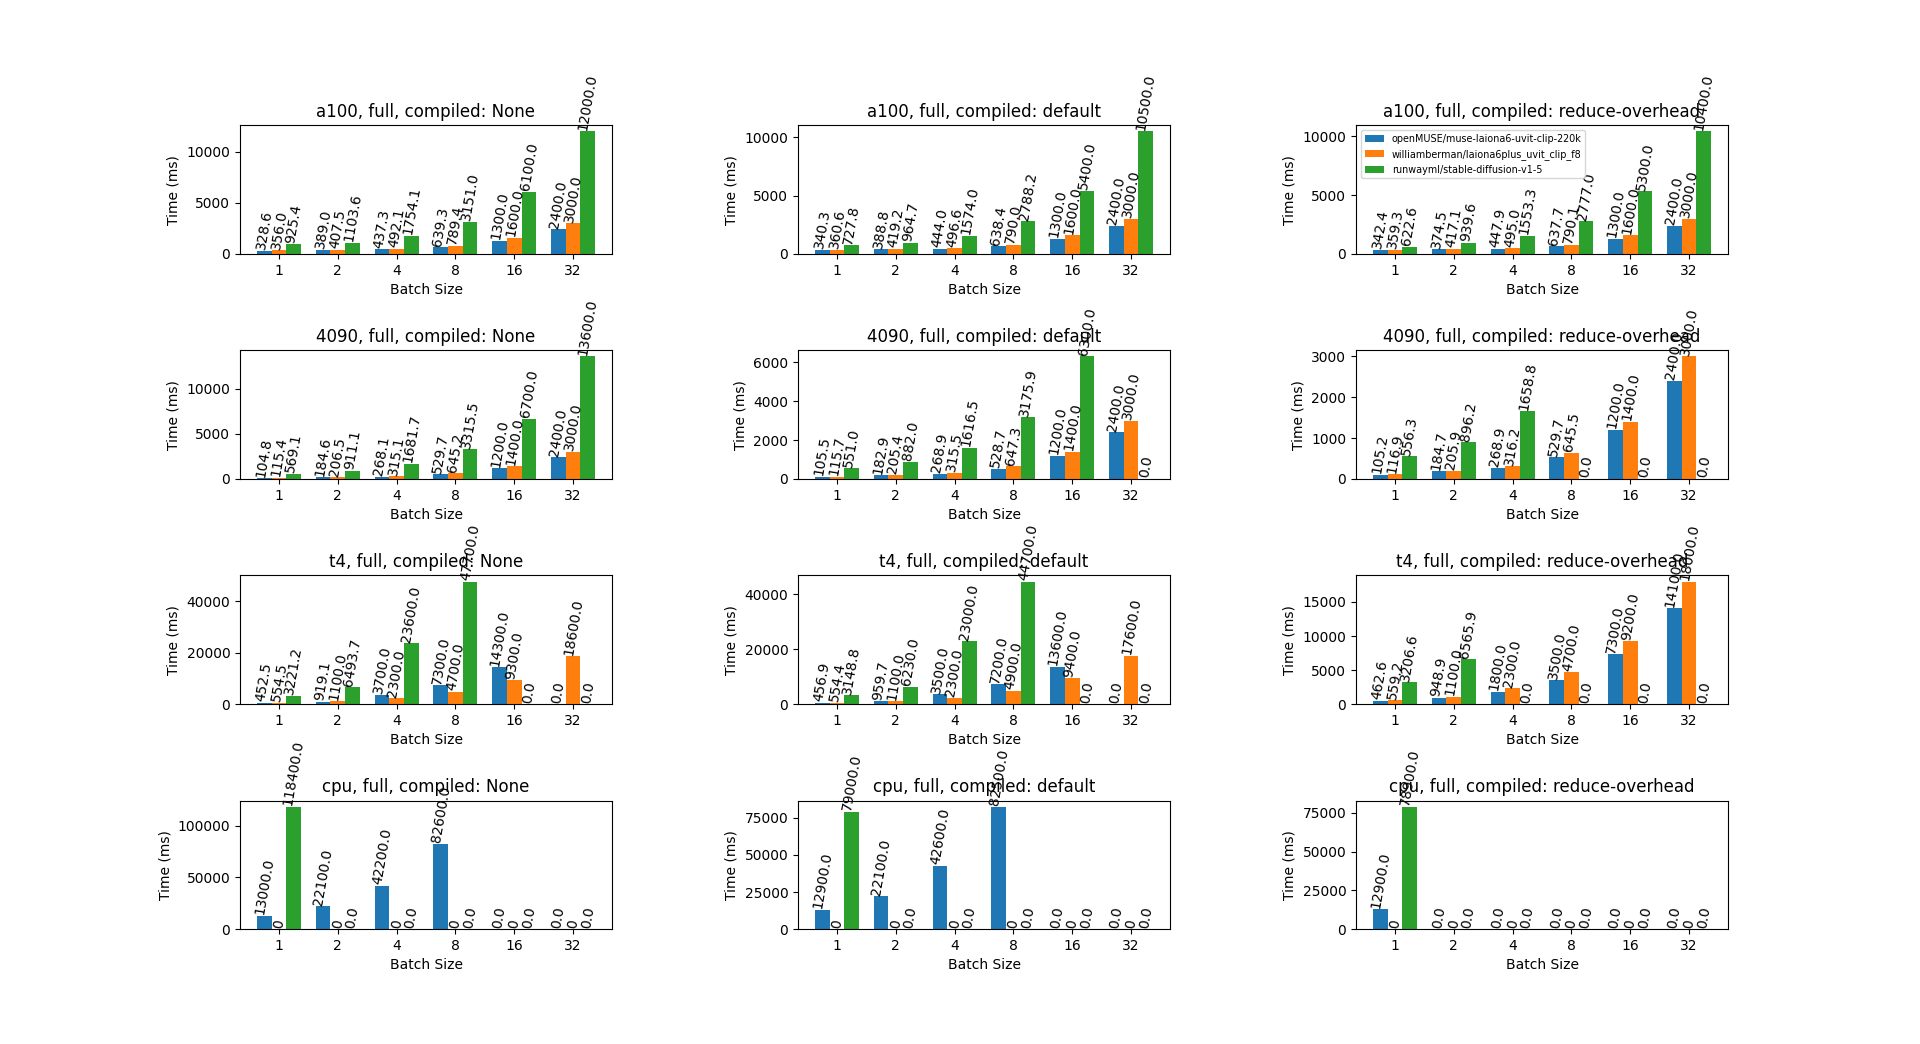
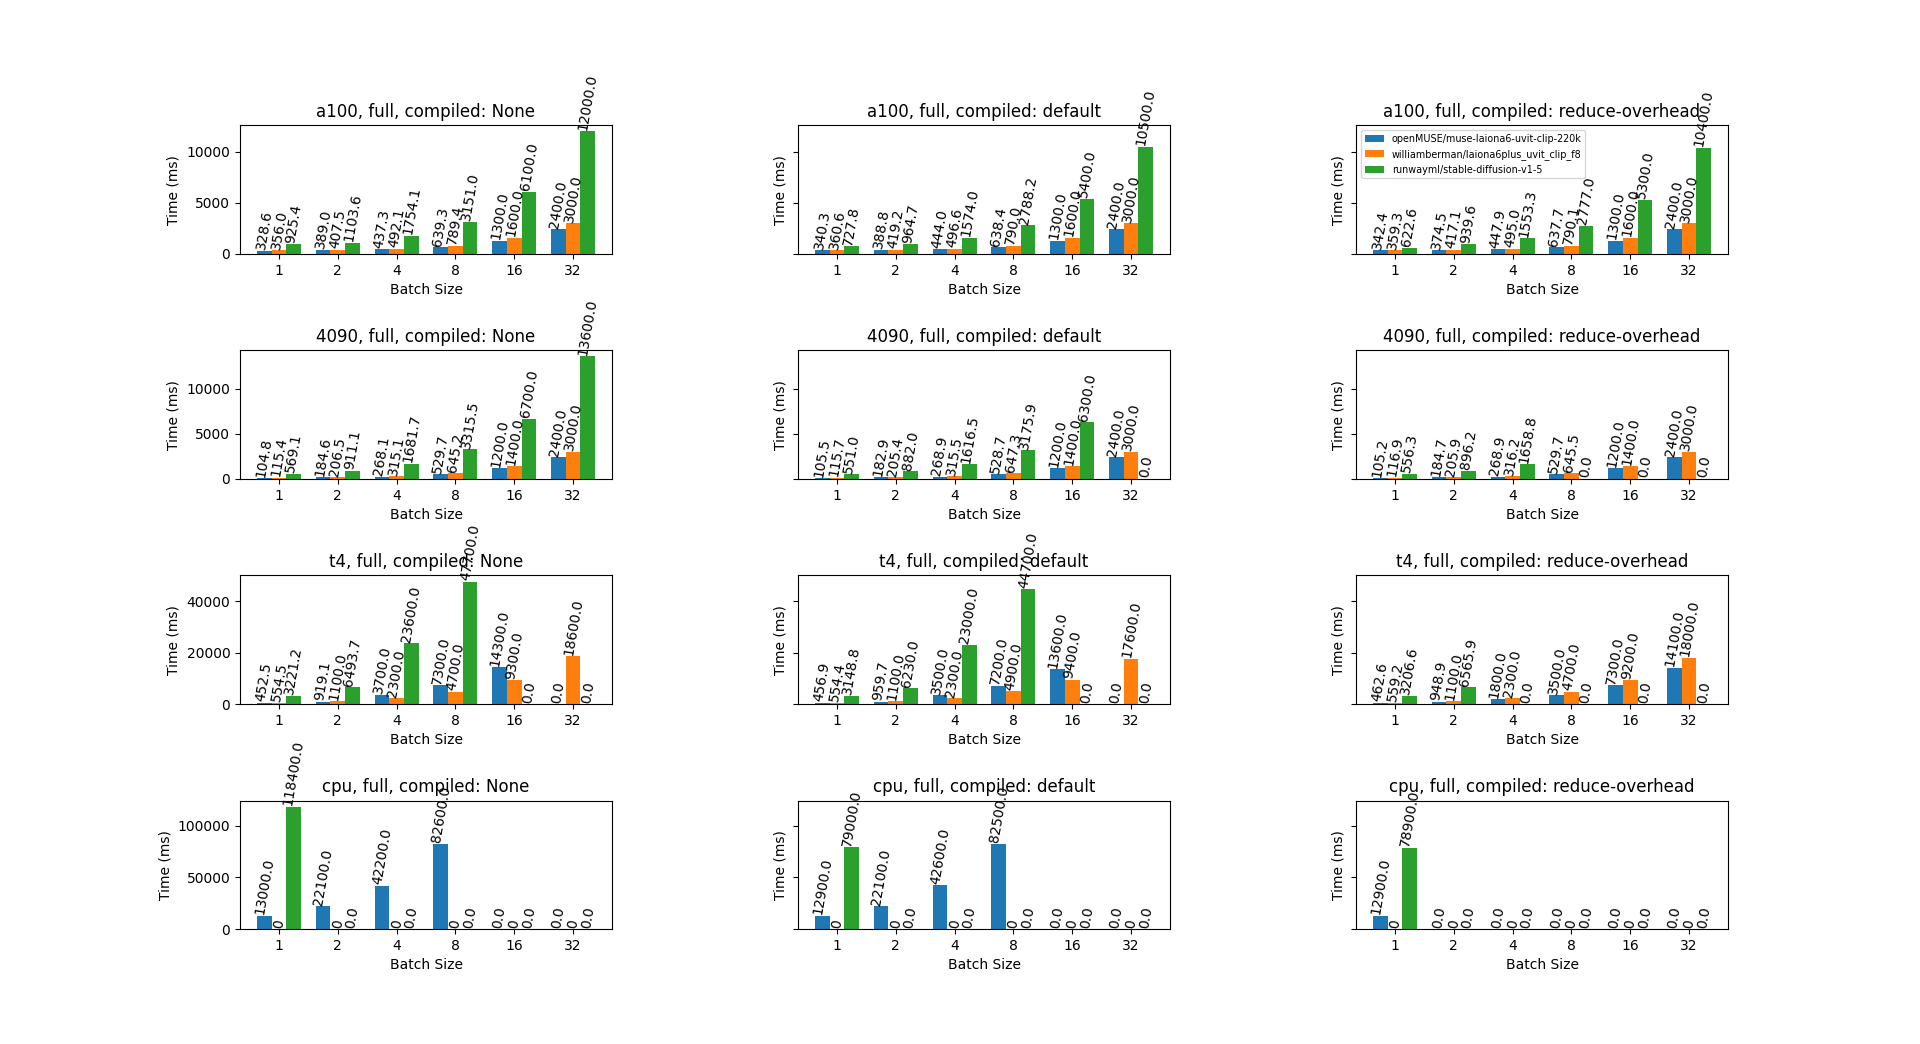
share y axes

diff --git a/chart.py b/chart.py
@@ -67,7 +67,7 @@ if __name__ == "__main__":
 
     assert args.component in ["full", "backbone", "vae"]
 
-    fig, axs = plt.subplots(4, 3)
+    fig, axs = plt.subplots(4, 3, sharey='row')
 
     for row_idx, device in enumerate(["a100", "4090", "t4", "cpu"]):
         for col_idx, compiled in enumerate(["None", "default", "reduce-overhead"]):
@@ -76,7 +76,4 @@ if __name__ == "__main__":
 
     plt.subplots_adjust(hspace=0.75, wspace=0.50)
 
-    # plt.savefig(f"{args.component}.png", dpi=1000)
-
     plt.show()
-    # plt.close()
